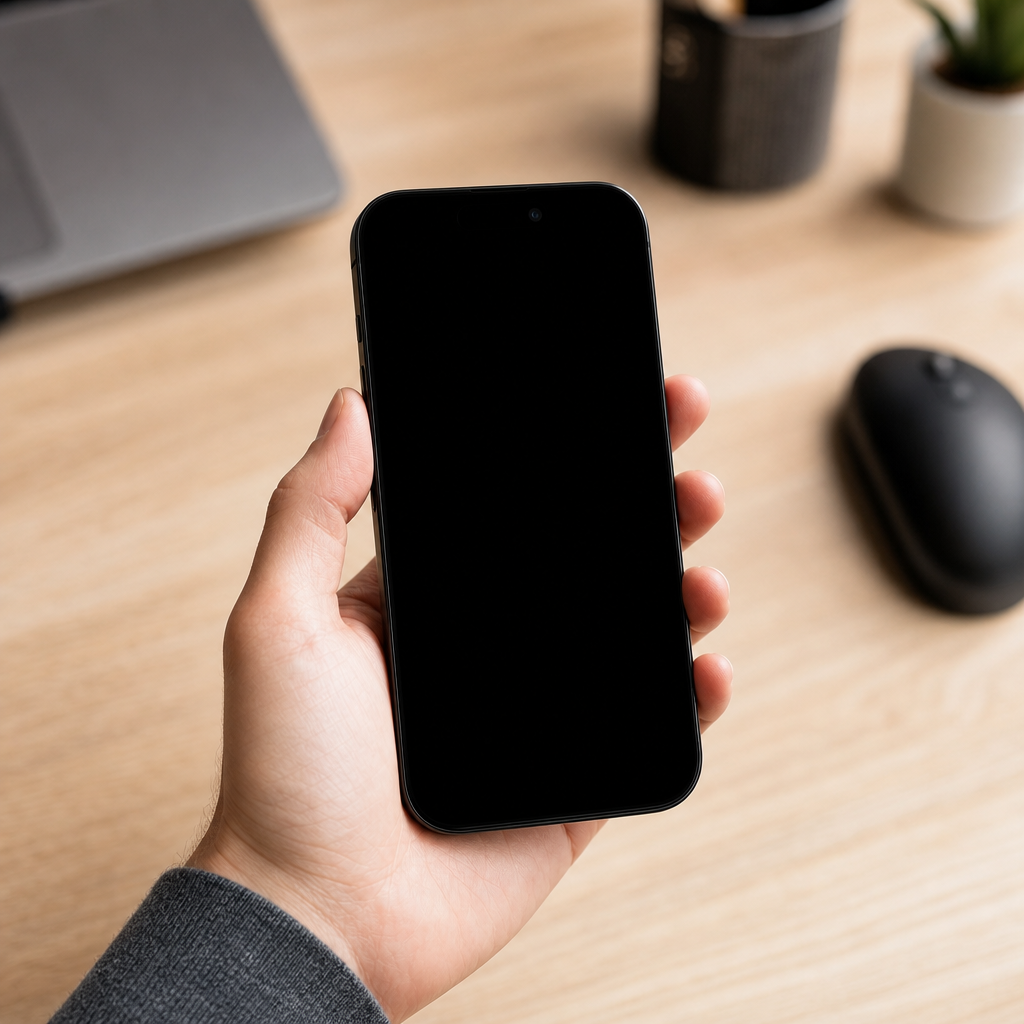
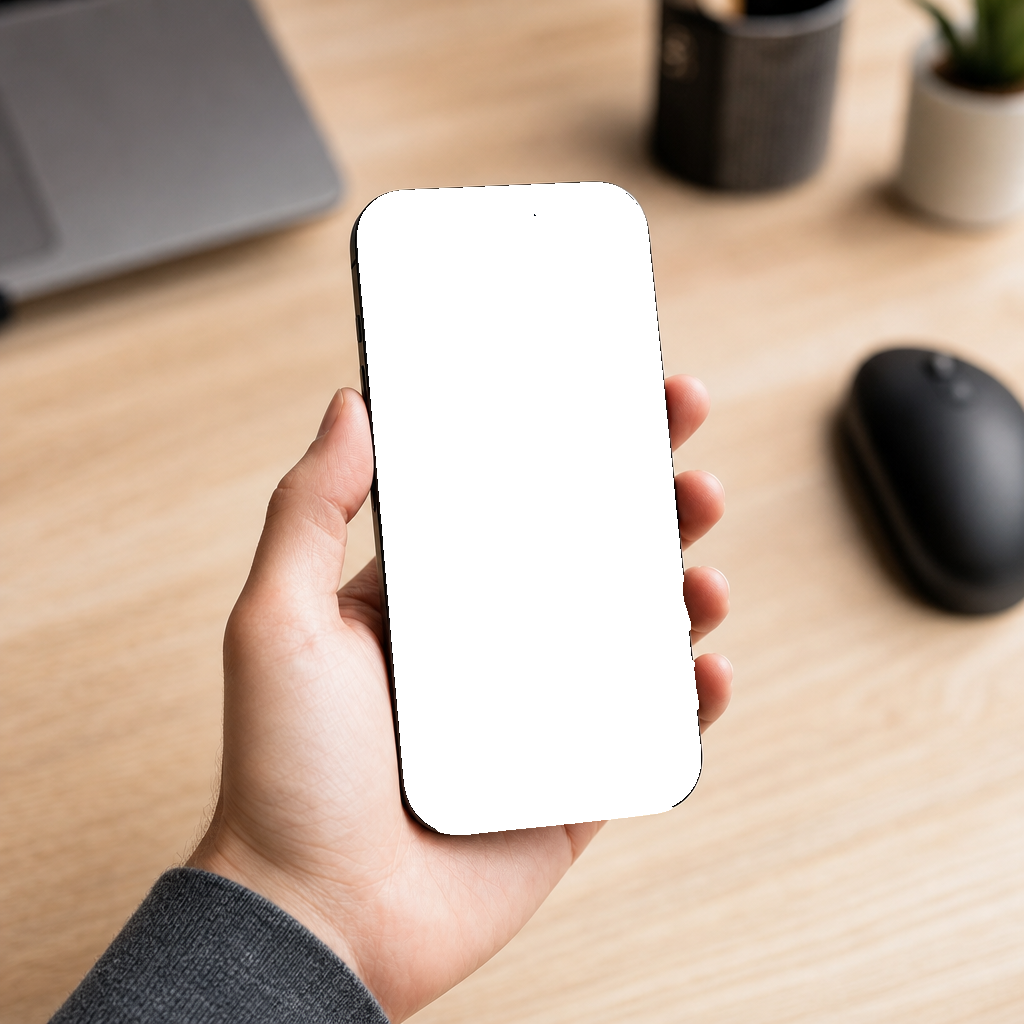
fix(studio): pixel-perfect iPhone mockup via alpha-mask PNG
Three rounds of geometric detection couldn't close the alignment gap —
the screen has anti-aliased curved edges that don't fit a pure-math
"rounded rectangle with circular corners" model, so each measurement
left visible bleed somewhere.

Architectural fix: stop using the PNG as a background and start using
its alpha channel as a cookie-cutter mask.

Asset:
- public/assets/deviceMockups/iPhoneMockup.png is now RGBA. The screen
  pixels (~17.8 % of the image) carry alpha=0; everything else is fully
  opaque. Conversion script is /tmp/cutout_screen.py — it flood-fills
  the dark screen region (looser threshold than find_screen_corners.py
  to catch anti-aliased rim pixels), runs a 2-px morphological dilate
  to swallow any sub-pixel halo, and overwrites the PNG in place.

Component (src/components/studio/IPhoneMockup.tsx):
- Stack order flipped: wallpaper container is now the BACK layer, the
  photographic <img> is the FRONT layer. The transparent screen pixels
  show through to whatever sits behind them — pixel-perfect alignment
  by construction.
- Wallpaper rect is overscanned by SCREEN_OVERSCAN_PCT = 3 % on each
  side, guaranteeing the alpha hole is fully covered even with sub-
  pixel detection error. The mask trims any overflow.
- LockChrome's `top` is computed dynamically to compensate for the
  overscan, so the clock keeps the same visual position relative to
  the screen edge (8 % of the screen height, not 8 % of the larger
  oversized wrapper).
[…]

Changed region(s): [[0.3438, 0.1562, 0.6875, 0.8125]]

diff --git a/src/components/studio/IPhoneMockup.tsx b/src/components/studio/IPhoneMockup.tsx
@@ -25,11 +25,27 @@ const PNG_CORNERS = {
 } as const;
 const PNG_AABB = { minX: 359, minY: 184, maxX: 698, maxY: 830 } as const;
 
-// `detectScreenRect` enforces the CSS-CW-positive rotation convention and
-// estimates the corner radius from the corner-to-AABB inset, so the
-// transform + corner curvature both match the photographic tilt.
-// See `src/lib/screenRect.test.ts` for the convention-pinning tests.
+// `detectScreenRect` drives the wallpaper's rotation + position so the
+// gradient inherits the device's tilt. The asset PNG carries an alpha mask
+// over the screen pixels (see `/tmp/cutout_screen.py`); the wallpaper
+// renders BEHIND the PNG and shows through the transparent screen area
+// exactly. The rect is expanded slightly past the detected screen so the
+// alpha hole is always covered — no need for pixel-perfect dimensions.
 const SCREEN = detectScreenRect(PNG_CORNERS, PNG_AABB, PNG_SIZE.w, PNG_SIZE.h);
+/** % padding added on each side of the wallpaper rect so the alpha hole is
+ *  fully covered even with sub-pixel detection error. The PNG mask trims
+ *  any overflow. */
+const SCREEN_OVERSCAN_PCT = 3;
+/** LockChrome anchors at this % from the top of the *screen* (not the
+ *  oversized wrapper). 8% gives a comfortable lock-screen layout. */
+const LOCK_CHROME_TOP_OF_SCREEN_PCT = 8;
+/** LockChrome's actual `top` value as a % of the oversized wrapper.
+ *  Compensates for the overscan so the clock keeps the same visual
+ *  position relative to the screen edge. */
+const LOCK_CHROME_TOP_PCT =
+  ((SCREEN_OVERSCAN_PCT + (LOCK_CHROME_TOP_OF_SCREEN_PCT / 100) * SCREEN.heightPct) /
+    (SCREEN.heightPct + SCREEN_OVERSCAN_PCT * 2)) *
+  100;
 
 interface Props {
   grain: number;
@@ -57,27 +73,17 @@ export function IPhoneMockup({ grain, source, colors, style, blur, seed }: Props
       className="relative shrink-0"
       style={{ aspectRatio: "1 / 1", maxHeight: "100%", maxWidth: "100%", height: "100%" }}
     >
-      {/* Photographic frame — back layer. The iPhone's screen area is solid
-          black; the wallpaper canvas above covers exactly that rectangle. */}
-      <img
-        src={MOCKUP_SRC}
-        alt=""
-        aria-hidden
-        className="absolute inset-0 w-full h-full object-contain pointer-events-none select-none"
-      />
-      {/* Wallpaper screen + lock chrome — front layer, masked to the screen
-          rect (and rotated to match the phone's tilt in the photograph) so
-          the bezel/hand/desk stay untouched. */}
+      {/* Wallpaper screen + lock chrome — BACK layer. Sized + rotated to
+          match the phone's tilt so the gradient looks "displayed on the
+          device", expanded by SCREEN_OVERSCAN_PCT on each side so the
+          alpha hole is fully covered even with sub-pixel detection error. */}
       <div
-        className="absolute overflow-hidden"
+        className="absolute"
         style={{
-          left: `${SCREEN.leftPct}%`,
-          top: `${SCREEN.topPct}%`,
-          width: `${SCREEN.widthPct}%`,
-          height: `${SCREEN.heightPct}%`,
-          // Dual-axis percentage (X / Y) keeps corners visually circular on a
-          // non-square element — single-value % would stretch them vertically.
-          borderRadius: `${SCREEN.borderRadiusXPct}% / ${SCREEN.borderRadiusYPct}%`,
+          left: `${SCREEN.leftPct - SCREEN_OVERSCAN_PCT}%`,
+          top: `${SCREEN.topPct - SCREEN_OVERSCAN_PCT}%`,
+          width: `${SCREEN.widthPct + SCREEN_OVERSCAN_PCT * 2}%`,
+          height: `${SCREEN.heightPct + SCREEN_OVERSCAN_PCT * 2}%`,
           transform: `rotate(${SCREEN.rotateDeg}deg)`,
           transformOrigin: "center",
         }}
@@ -92,6 +98,16 @@ export function IPhoneMockup({ grain, source, colors, style, blur, seed }: Props
         )}
         <LockChrome />
       </div>
+      {/* Photographic frame — FRONT layer. The screen pixels are alpha=0
+          (see /tmp/cutout_screen.py), acting as a cookie-cutter mask over
+          the wallpaper. Pixel-perfect alignment by construction: whatever
+          the photo shows as screen, that's what the wallpaper fills. */}
+      <img
+        src={MOCKUP_SRC}
+        alt=""
+        aria-hidden
+        className="absolute inset-0 w-full h-full object-contain pointer-events-none select-none"
+      />
     </div>
   );
 }
@@ -118,8 +134,8 @@ function OwnCanvas({ colors, style, blur, seed }: { colors: Colors4; style: Styl
 function LockChrome() {
   return (
     <div
-      className="absolute top-[8%] left-0 right-0 flex flex-col items-center text-white pointer-events-none"
-      style={{ textShadow: "0 1px 6px rgba(0,0,0,0.35)" }}
+      className="absolute left-0 right-0 flex flex-col items-center text-white pointer-events-none"
+      style={{ top: `${LOCK_CHROME_TOP_PCT}%`, textShadow: "0 1px 6px rgba(0,0,0,0.35)" }}
     >
       <div className="font-sans text-[clamp(6px,1.6cqw,10px)] tracking-wider opacity-80 uppercase">
         Monday, April 20

diff --git a/src/components/studio/IPhoneMockup.test.tsx b/src/components/studio/IPhoneMockup.test.tsx
@@ -1,5 +1,7 @@
 import { describe, it, expect, vi } from "vitest";
 import { render, screen } from "@testing-library/react";
+import { readFileSync } from "node:fs";
+import { resolve } from "node:path";
 import { IPhoneMockup } from "./IPhoneMockup";
 import type { Colors4 } from "@/lib/palettes";
 
@@ -23,6 +25,42 @@ describe("<IPhoneMockup />", () => {
     const img = container.querySelector("img");
     expect(img).not.toBeNull();
     expect(img!.getAttribute("src")).toContain("/deviceMockups/iPhoneMockup.png");
+  });
+
+  it("the served PNG is RGBA — alpha channel acts as the screen mask", () => {
+    // Pixel-perfect alignment relies on the screen pixels being alpha=0,
+    // not solid black. Read the PNG header directly: byte 25 (0-indexed) is
+    // the IHDR colour-type field, which must be 6 for RGBA. Replacing the
+    // asset with a non-RGBA PNG silently breaks the masking strategy and
+    // would only show as visual bleed; this test catches that fast.
+    const pngPath = resolve(
+      __dirname,
+      "../../../public/assets/deviceMockups/iPhoneMockup.png",
+    );
+    const buf = readFileSync(pngPath);
+    // PNG signature (8 bytes) + IHDR length (4) + "IHDR" (4) + width (4) + height (4) = 24
+    // → byte 25 is bit-depth, byte 26 is colour-type.
+    const colourType = buf[25];
+    expect(colourType).toBe(6); // 6 = RGBA
+  });
+
+  it("renders the wallpaper BEHIND the photo with overscan (alpha-mask strategy)", () => {
+    const { container } = render(<IPhoneMockup {...common} />);
+    // The wallpaper container precedes the <img> in DOM order so it's the
+    // back layer (later siblings paint on top).
+    const root = container.querySelector("[style*='aspect-ratio: 1 / 1']")!;
+    const children = Array.from(root.children);
+    const wallpaperIdx = children.findIndex((c) => c.querySelector("canvas"));
+    const imgIdx = children.findIndex((c) => c.tagName === "IMG");
+    expect(wallpaperIdx).toBeGreaterThanOrEqual(0);
+    expect(imgIdx).toBeGreaterThanOrEqual(0);
+    expect(wallpaperIdx).toBeLessThan(imgIdx);
+    // The wallpaper rect is overscanned past the detected screen — extends
+    // outside the screen rect on each side so the alpha hole is fully
+    // covered. We don't pin the exact %, only the inequality.
+    const wallpaper = children[wallpaperIdx] as HTMLElement;
+    const widthPct = parseFloat(wallpaper.style.width);
+    expect(widthPct).toBeGreaterThan(28); // detected screen width ≈ 28.23%
   });
 
   it("re-renders the canvas when spec deps (colors/style/blur/seed) change, but not for grain-only updates", async () => {
